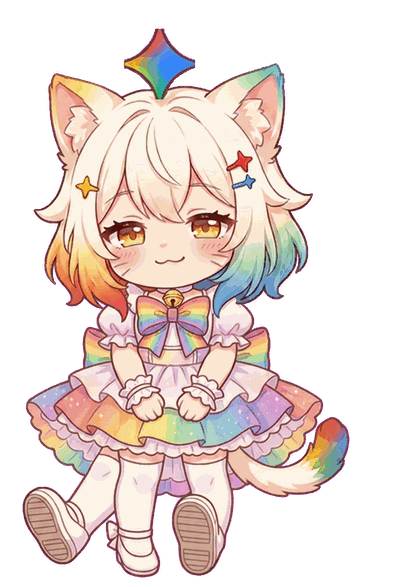
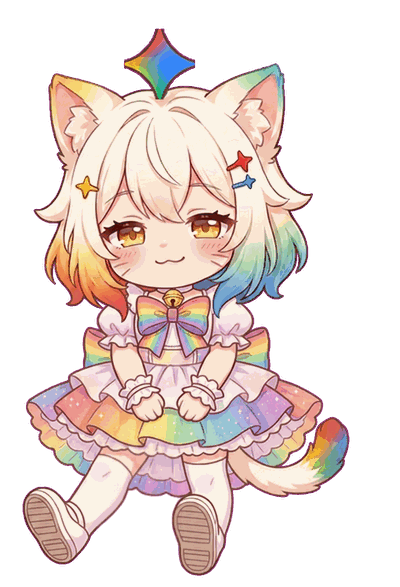
fix: tears fall from under the eyes and mirror with the pet; remove stray third leg in idol sit sprite

Changed region(s): [[0.24, 0.7359, 0.45, 1.0]]

diff --git a/src/render/mod.rs b/src/render/mod.rs
@@ -476,7 +476,8 @@ impl Renderer {
             if f.xf.opacity <= 0.003 { continue; }
             // 元素盒：宽约 1em，高 = 行高（YaHei normal ≈ 1.32em），变换原点在盒中心
             let (bw, bh) = (f.size * 0.9, f.size * 1.32);
-            let (cx, cy) = (f.x + bw / 2.0, f.y + bh / 2.0);
+            // 跟着立绘一起镜像（转身过程中 flip 在 -1..1 之间平滑变化），眼泪/汗滴才贴得住脸
+            let (cx, cy) = (PET_W / 2.0 + (f.x + bw / 2.0 - PET_W / 2.0) * scene.flip, f.y + bh / 2.0);
             let t = pet.pre_concat(xf_matrix(&f.xf, cx, cy)).pre_translate(cx, cy).pre_scale(f.size, f.size);
             shapes::draw_glyph(pm, f.shape, f.color, f.xf.opacity, t, f.size);
         }

diff --git a/src/behavior/fx.rs b/src/behavior/fx.rs
@@ -84,7 +84,8 @@ impl Fx {
             match kind {
                 FxKind::Anger => (x, y) = (140.0, 18.0),
                 FxKind::Sweat => (x, y) = (150.0, 40.0),
-                FxKind::Tear => (x, y) = (if i % 2 == 1 { 72.0 } else { 128.0 }, 100.0),
+                // 眼睛下方：立绘 400x587 里两眼约在 x=125 / 212、下沿 y≈222（盒子坐标减半，再减半个字宽）
+                FxKind::Tear => (x, y) = (if i % 2 == 1 { 55.0 } else { 99.0 }, 100.0),
                 FxKind::Rain | FxKind::Snow => (x, y) = (rand(10.0, 180.0), rand(-50.0, 30.0)),
                 FxKind::Spark => {
                     (x, y) = (96.0, 50.0);
